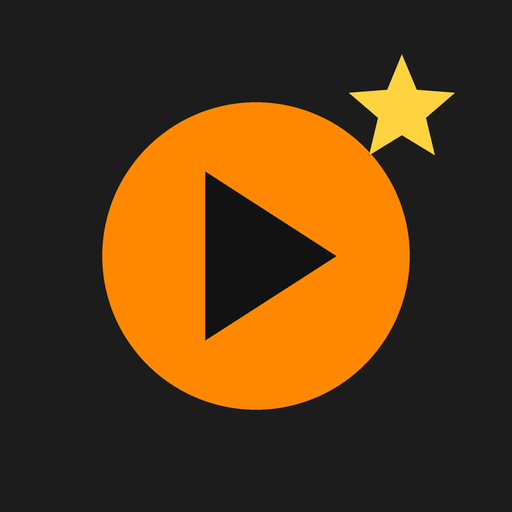
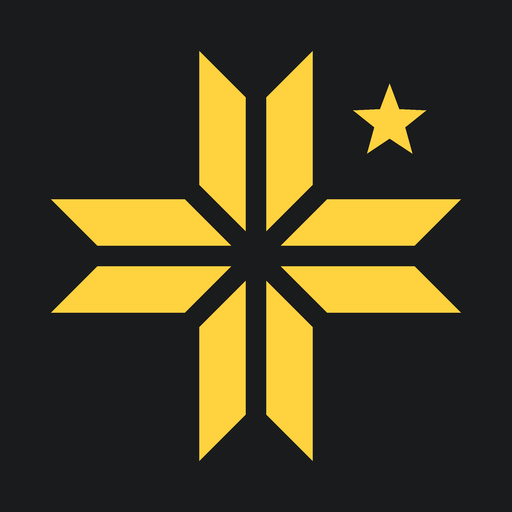
v12: новий логотип та іконка (8 рівних паралелограмів і зірка)
Claude-Session: https://claude.ai/code/session_019anZu4gaGcYeg39Lqo4a8F

diff --git a/index.html b/index.html
@@ -210,7 +210,7 @@ dialog .row { display: flex; gap: 8px; justify-content: flex-end; margin-top: 14
 <body>
 
 <header>
-  <svg class="logo" viewBox="0 0 24 24" fill="currentColor" aria-hidden="true"><path d="M12 2 4 20h16L12 2zm0 5.2L15.4 15H8.6L12 7.2z"/></svg>
+  <svg class="logo" viewBox="-39.83 -39.83 79.66 79.66" fill="currentColor" aria-hidden="true"><path d="M2.00 -4.83 L11.00 -13.83 L11.00 -39.83 L2.00 -30.83 Z M-2.00 -4.83 L-11.00 -13.83 L-11.00 -39.83 L-2.00 -30.83 Z M-4.83 -2.00 L-13.83 -11.00 L-39.83 -11.00 L-30.83 -2.00 Z M-4.83 2.00 L-13.83 11.00 L-39.83 11.00 L-30.83 2.00 Z M-2.00 4.83 L-11.00 13.83 L-11.00 39.83 L-2.00 30.83 Z M2.00 4.83 L11.00 13.83 L11.00 39.83 L2.00 30.83 Z M4.83 2.00 L13.83 11.00 L39.83 11.00 L30.83 2.00 Z M4.83 -2.00 L13.83 -11.00 L39.83 -11.00 L30.83 -2.00 Z M26.00 -33.50 L24.15 -28.55 L18.87 -28.32 L23.00 -25.03 L21.59 -19.93 L26.00 -22.85 L30.41 -19.93 L29.00 -25.03 L33.13 -28.32 L27.85 -28.55 Z"/></svg>
   <h1>Плеєр <span class="now" id="nowTitle"></span></h1>
   <button id="btnInstall" class="accent" title="Встановити як окремий застосунок">Встановити</button>
   <button id="btnBackup" title="Зберегти всі мітки й фрагменти у файл (резервна копія)">⤓ Копія</button>
@@ -1097,7 +1097,7 @@ addEventListener('beforeunload', () => { if (data) { data.pos = audio.currentTim
 addEventListener('resize', renderBar);
 
 /* ═════════ окремий застосунок (PWA) ═════════ */
-const APP_VER = 'v11';
+const APP_VER = 'v12';
 $('ver').textContent = APP_VER;
 if ('serviceWorker' in navigator && /^https?:$/.test(location.protocol)) {
   navigator.serviceWorker.register('sw.js').catch(() => {});

diff --git a/sw.js b/sw.js
@@ -1,5 +1,5 @@
 // Офлайн-кеш плеєра. Діє лише в папці /player/ і не чіпає основний застосунок.
-const CACHE = 'player-v11';
+const CACHE = 'player-v12';
 const FILES = ['./', './index.html', './manifest.webmanifest', './icon-192.png', './icon-512.png'];
 
 self.addEventListener('install', e => {

diff --git a/logo.py b/logo.py
@@ -1,0 +1,34 @@
+import math, sys
+from PIL import Image, ImageDraw
+# Геометрія (одиниці; центр 0,0; y вгору). 8 однакових паралелограмів + зірка.
+g, w, L = 4.0, 9.0, 26.0          # проміжок, ширина смуги, довжина
+d = g / math.sqrt(2)              # зсув діагонального зрізу, щоб проміжок по діагоналі теж = g
+base = [(g/2, g/2+d), (g/2+w, g/2+w+d), (g/2+w, g/2+w+d+L), (g/2, g/2+d+L)]
+def rot(p, k):                    # поворот на k*90°
+    x, y = p
+    for _ in range(k): x, y = -y, x
+    return (x, y)
+pieces = []
+for k in range(4):
+    pieces.append([rot(p, k) for p in base])
+    pieces.append([rot((-x, y), k) for x, y in base])   # дзеркальна пара
+cx, cy, R = 26.0, 26.0, 7.5        # зірка в куті між верхнім і правим променем
+star = [(cx + (R if i % 2 == 0 else R*0.42)*math.cos(math.pi/2 + i*math.pi/5),
+         cy + (R if i % 2 == 0 else R*0.42)*math.sin(math.pi/2 + i*math.pi/5)) for i in range(10)]
+shapes = pieces + [star]
+# центруємо всю композицію (разом із зіркою) у квадраті
+xs = [x for s in shapes for x, _ in s]; ys = [y for s in shapes for _, y in s]
+mx, my = (min(xs)+max(xs))/2, (min(ys)+max(ys))/2
+half = max(max(xs)-min(xs), max(ys)-min(ys))/2
+shapes = [[(x-mx, y-my) for x, y in s] for s in shapes]
+def svg_path(scale=1, off=0):
+    return ' '.join('M' + ' L'.join(f'{off+x*scale:.2f} {off-y*scale:.2f}' for x, y in s) + ' Z' for s in shapes)
+if sys.argv[1] == 'svg':          # для шапки: viewBox навколо фігури
+    print(f'<svg class="logo" viewBox="{-half:.2f} {-half:.2f} {2*half:.2f} {2*half:.2f}" fill="currentColor" aria-hidden="true"><path d="{svg_path()}"/></svg>')
+else:
+    out = sys.argv[2]
+    for n in (192, 512):
+        S4 = n*4; im = Image.new('RGB', (S4, S4), '#1a1b1d'); dr = ImageDraw.Draw(im)
+        sc = S4*0.40/half          # фігура займає 80% іконки
+        for s in shapes: dr.polygon([(S4/2+x*sc, S4/2-y*sc) for x, y in s], fill='#ffd23f')
+        im.resize((n, n), Image.LANCZOS).save(f'{out}/icon-{n}.png')

diff --git a/CLAUDE.md b/CLAUDE.md
@@ -12,3 +12,8 @@
 Мова інтерфейсу й спілкування — українська, до користувача — у чоловічому роді.
 Плеєр винесено з `battle-reports/player/`, бо там його адресу охоплював
 встановлений застосунок ХАРА ОМ і Android не ставив плеєр окремо.
+
+Логотип/іконка — 8 однакових паралелограмів (проміжки по осях і діагоналях
+однакові) + зірка; будується скриптом `logo.py`:
+`python3 logo.py png .` — `icon-192.png`, `icon-512.png`;
+`python3 logo.py svg` — `<svg class="logo">` для шапки в `index.html`.
